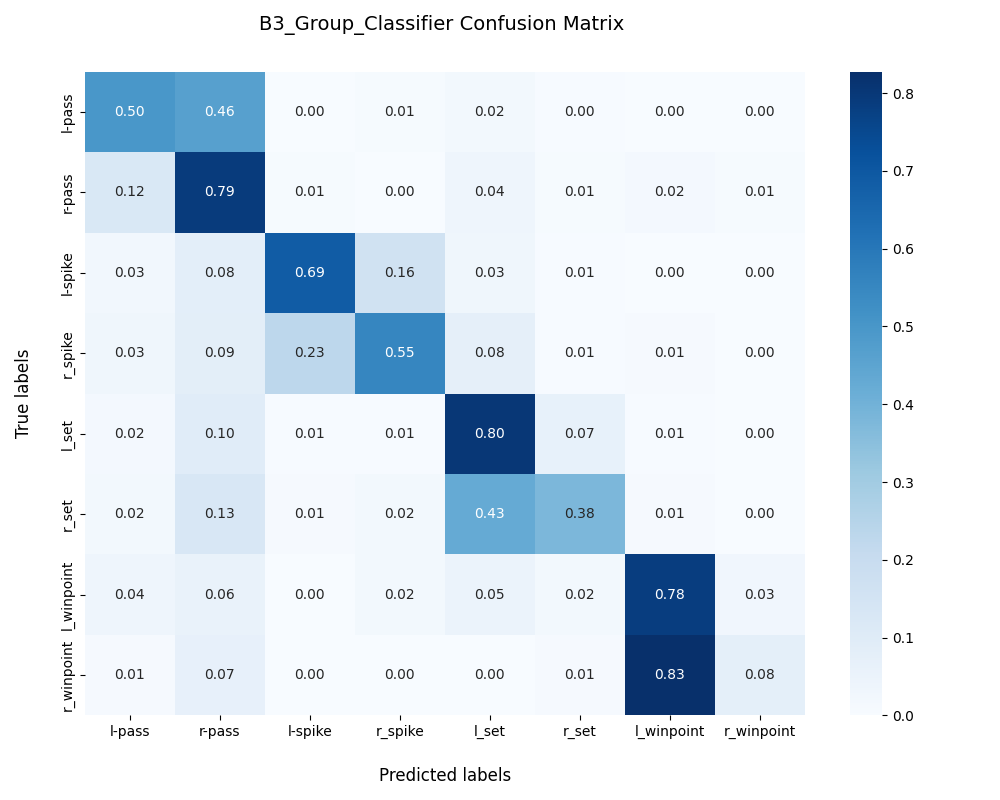
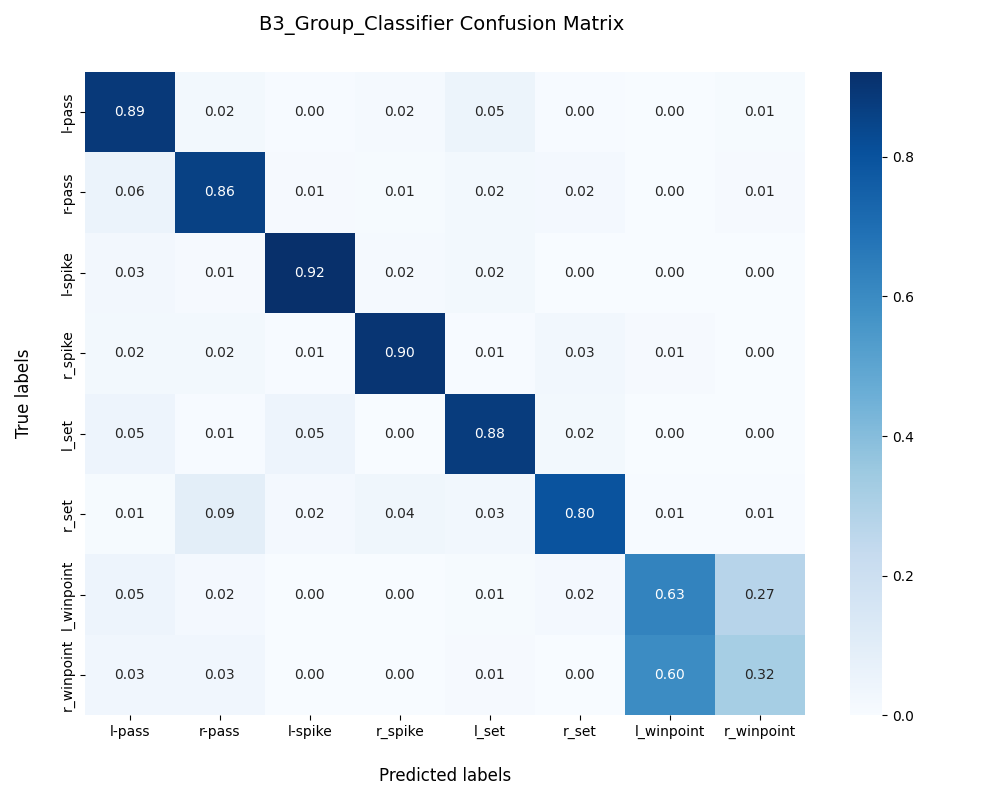
Results from Kaggle run for baseline 3 group classifier v6

diff --git a/train/b3_group_classifier_train.py b/train/b3_group_classifier_train.py
@@ -64,7 +64,7 @@ scheduler = torch.optim.lr_scheduler.ReduceLROnPlateau(optimizer, mode=conf_dict
 # Train
 os.makedirs('checkpoints',exist_ok=True)
 checkpoint_path='checkpoints/b3_group_classifier_best_model_checkpoint.pth'
-train(model,criterion,optimizer,scheduler,train_loader,val_loader,n_epoch,device,checkpoint_path,ind_step=100,early_stop=3,n_frozen_layers=7)
+train(model,criterion,optimizer,scheduler,train_loader,val_loader,n_epoch,device,checkpoint_path,ind_step=50,early_stop=5,n_frozen_layers=8)
 
 
 

diff --git a/utils/person_level_dataset.py b/utils/person_level_dataset.py
@@ -12,7 +12,7 @@ class VolleyballPersonDataset(BaseDataset):
         self.train=train
         self.train_transform = transforms.Compose([
             # 1. Flip: A spike is a spike regardless of direction
-            transforms.RandomHorizontalFlip(p=0.5),
+            #transforms.RandomHorizontalFlip(p=0.5),
             # 2. Color: Handle different jersey colors and gym lighting
             transforms.ColorJitter(brightness=0.3, contrast=0.3, saturation=0.2),
             # 3. Standardization (Invariant)
